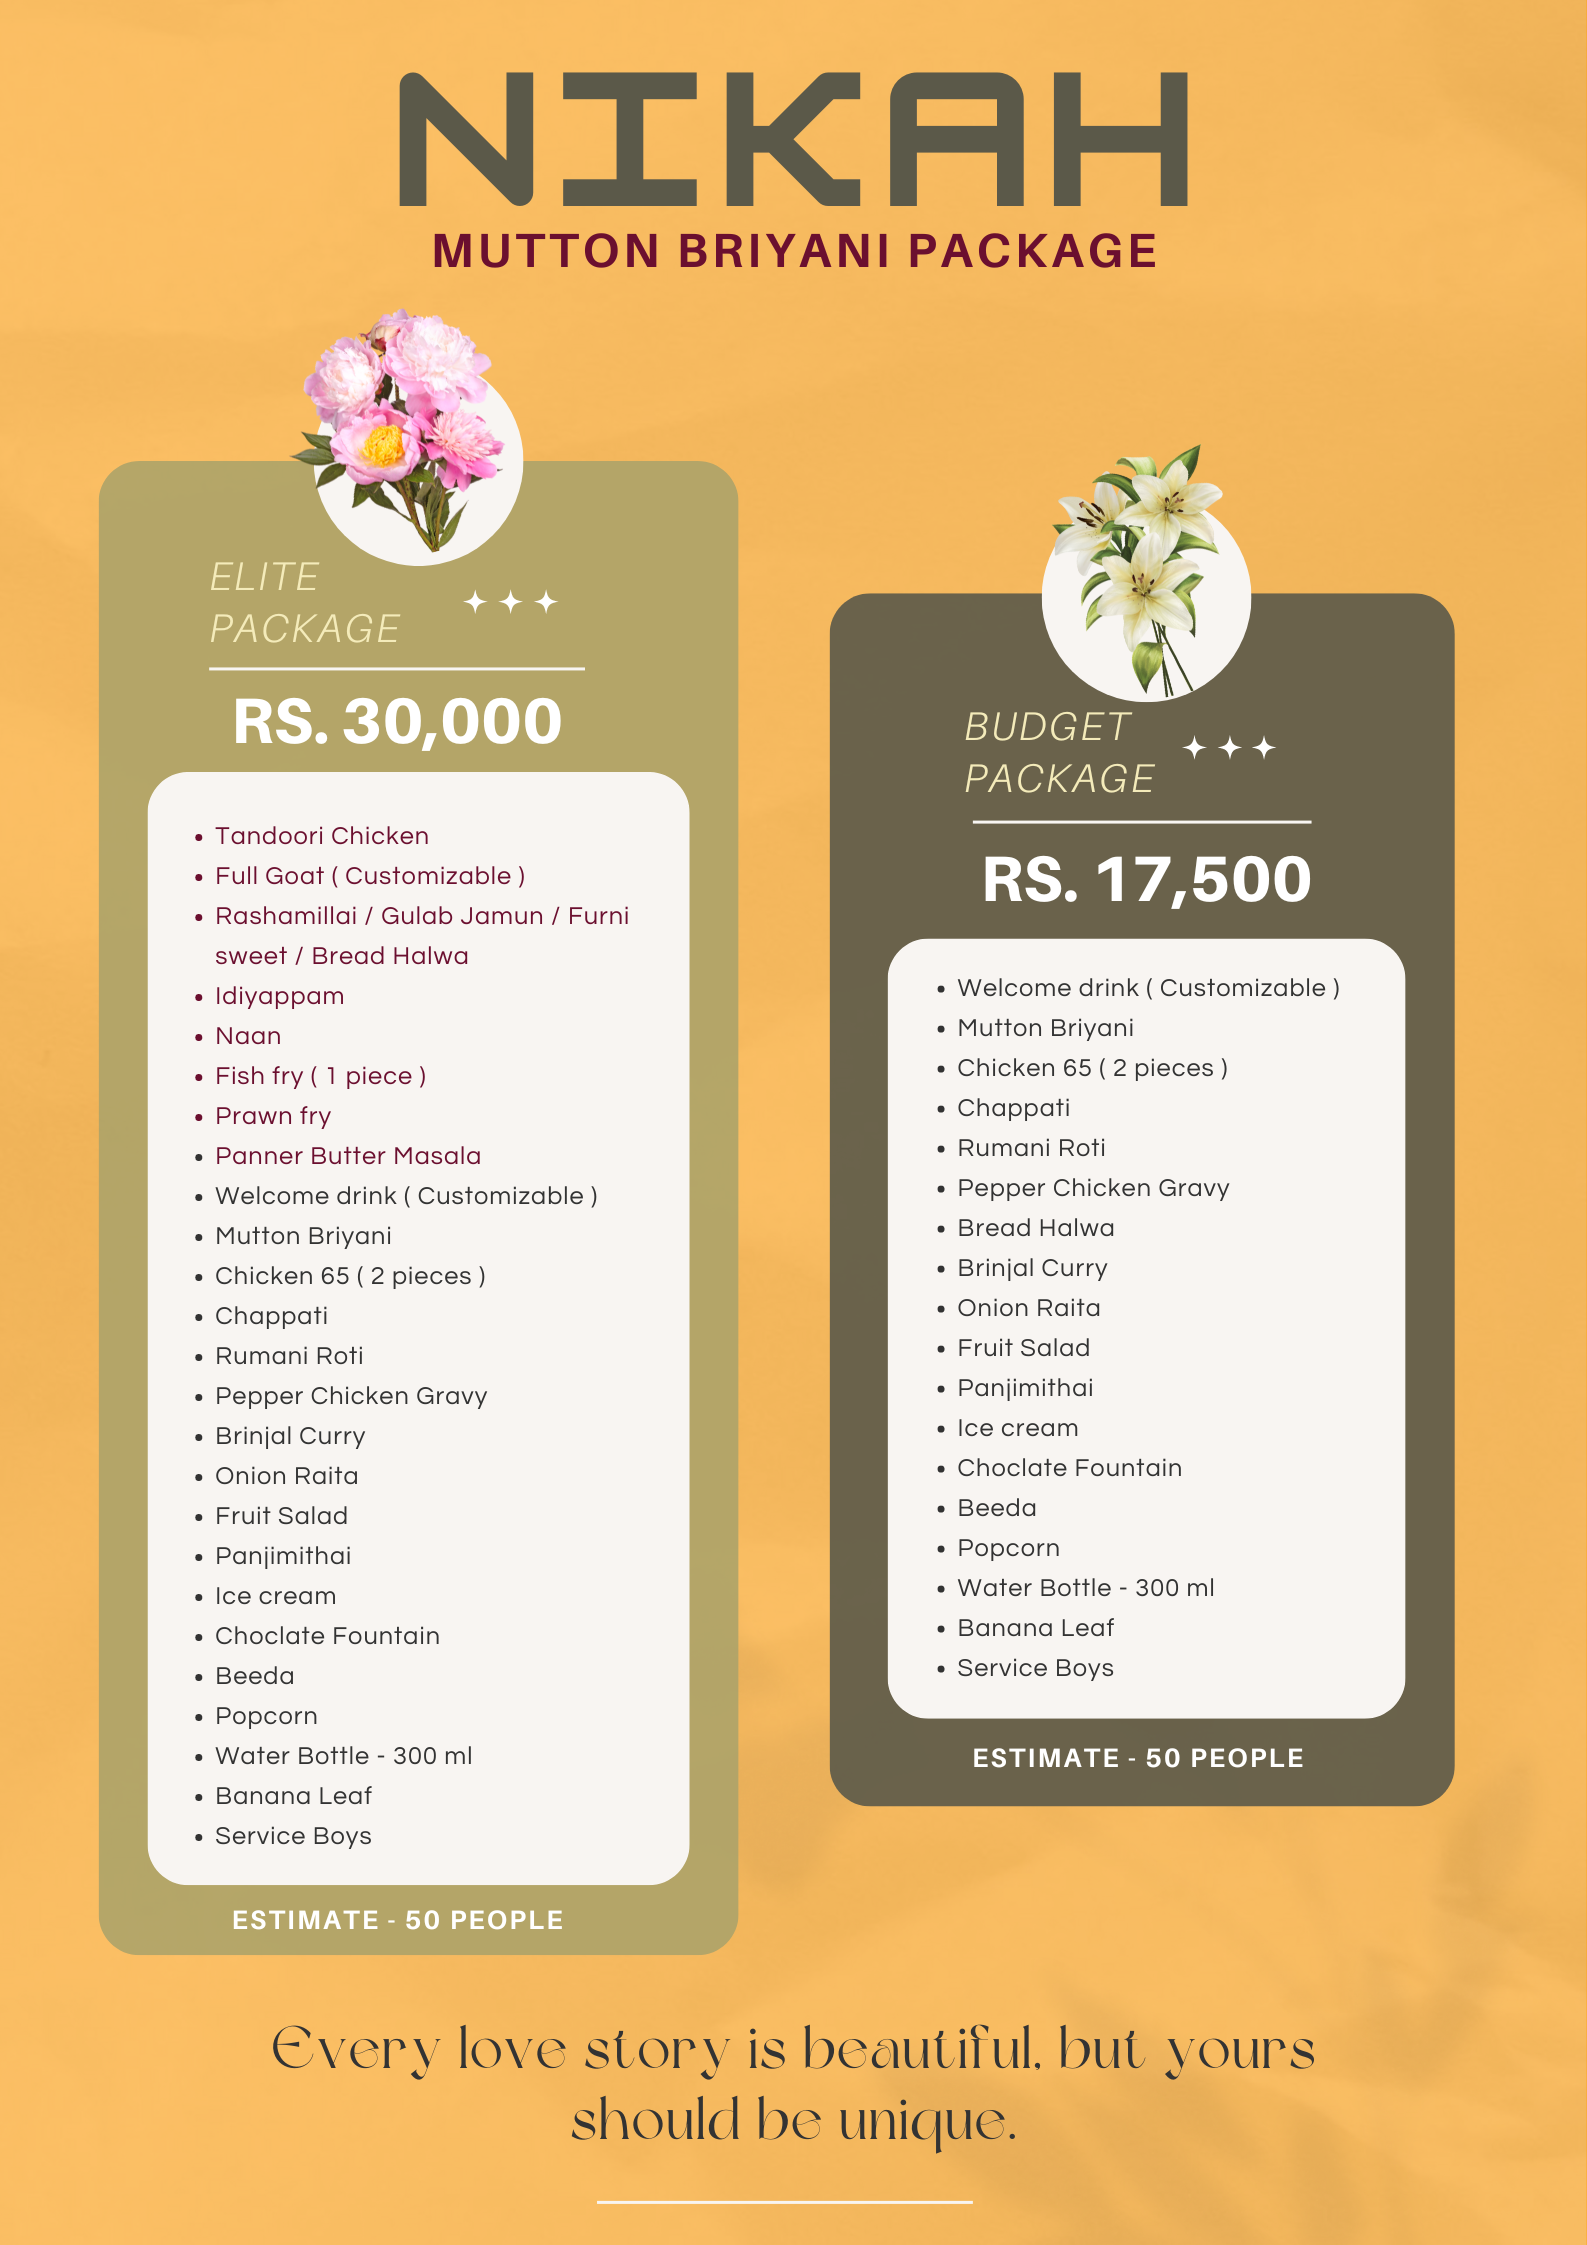
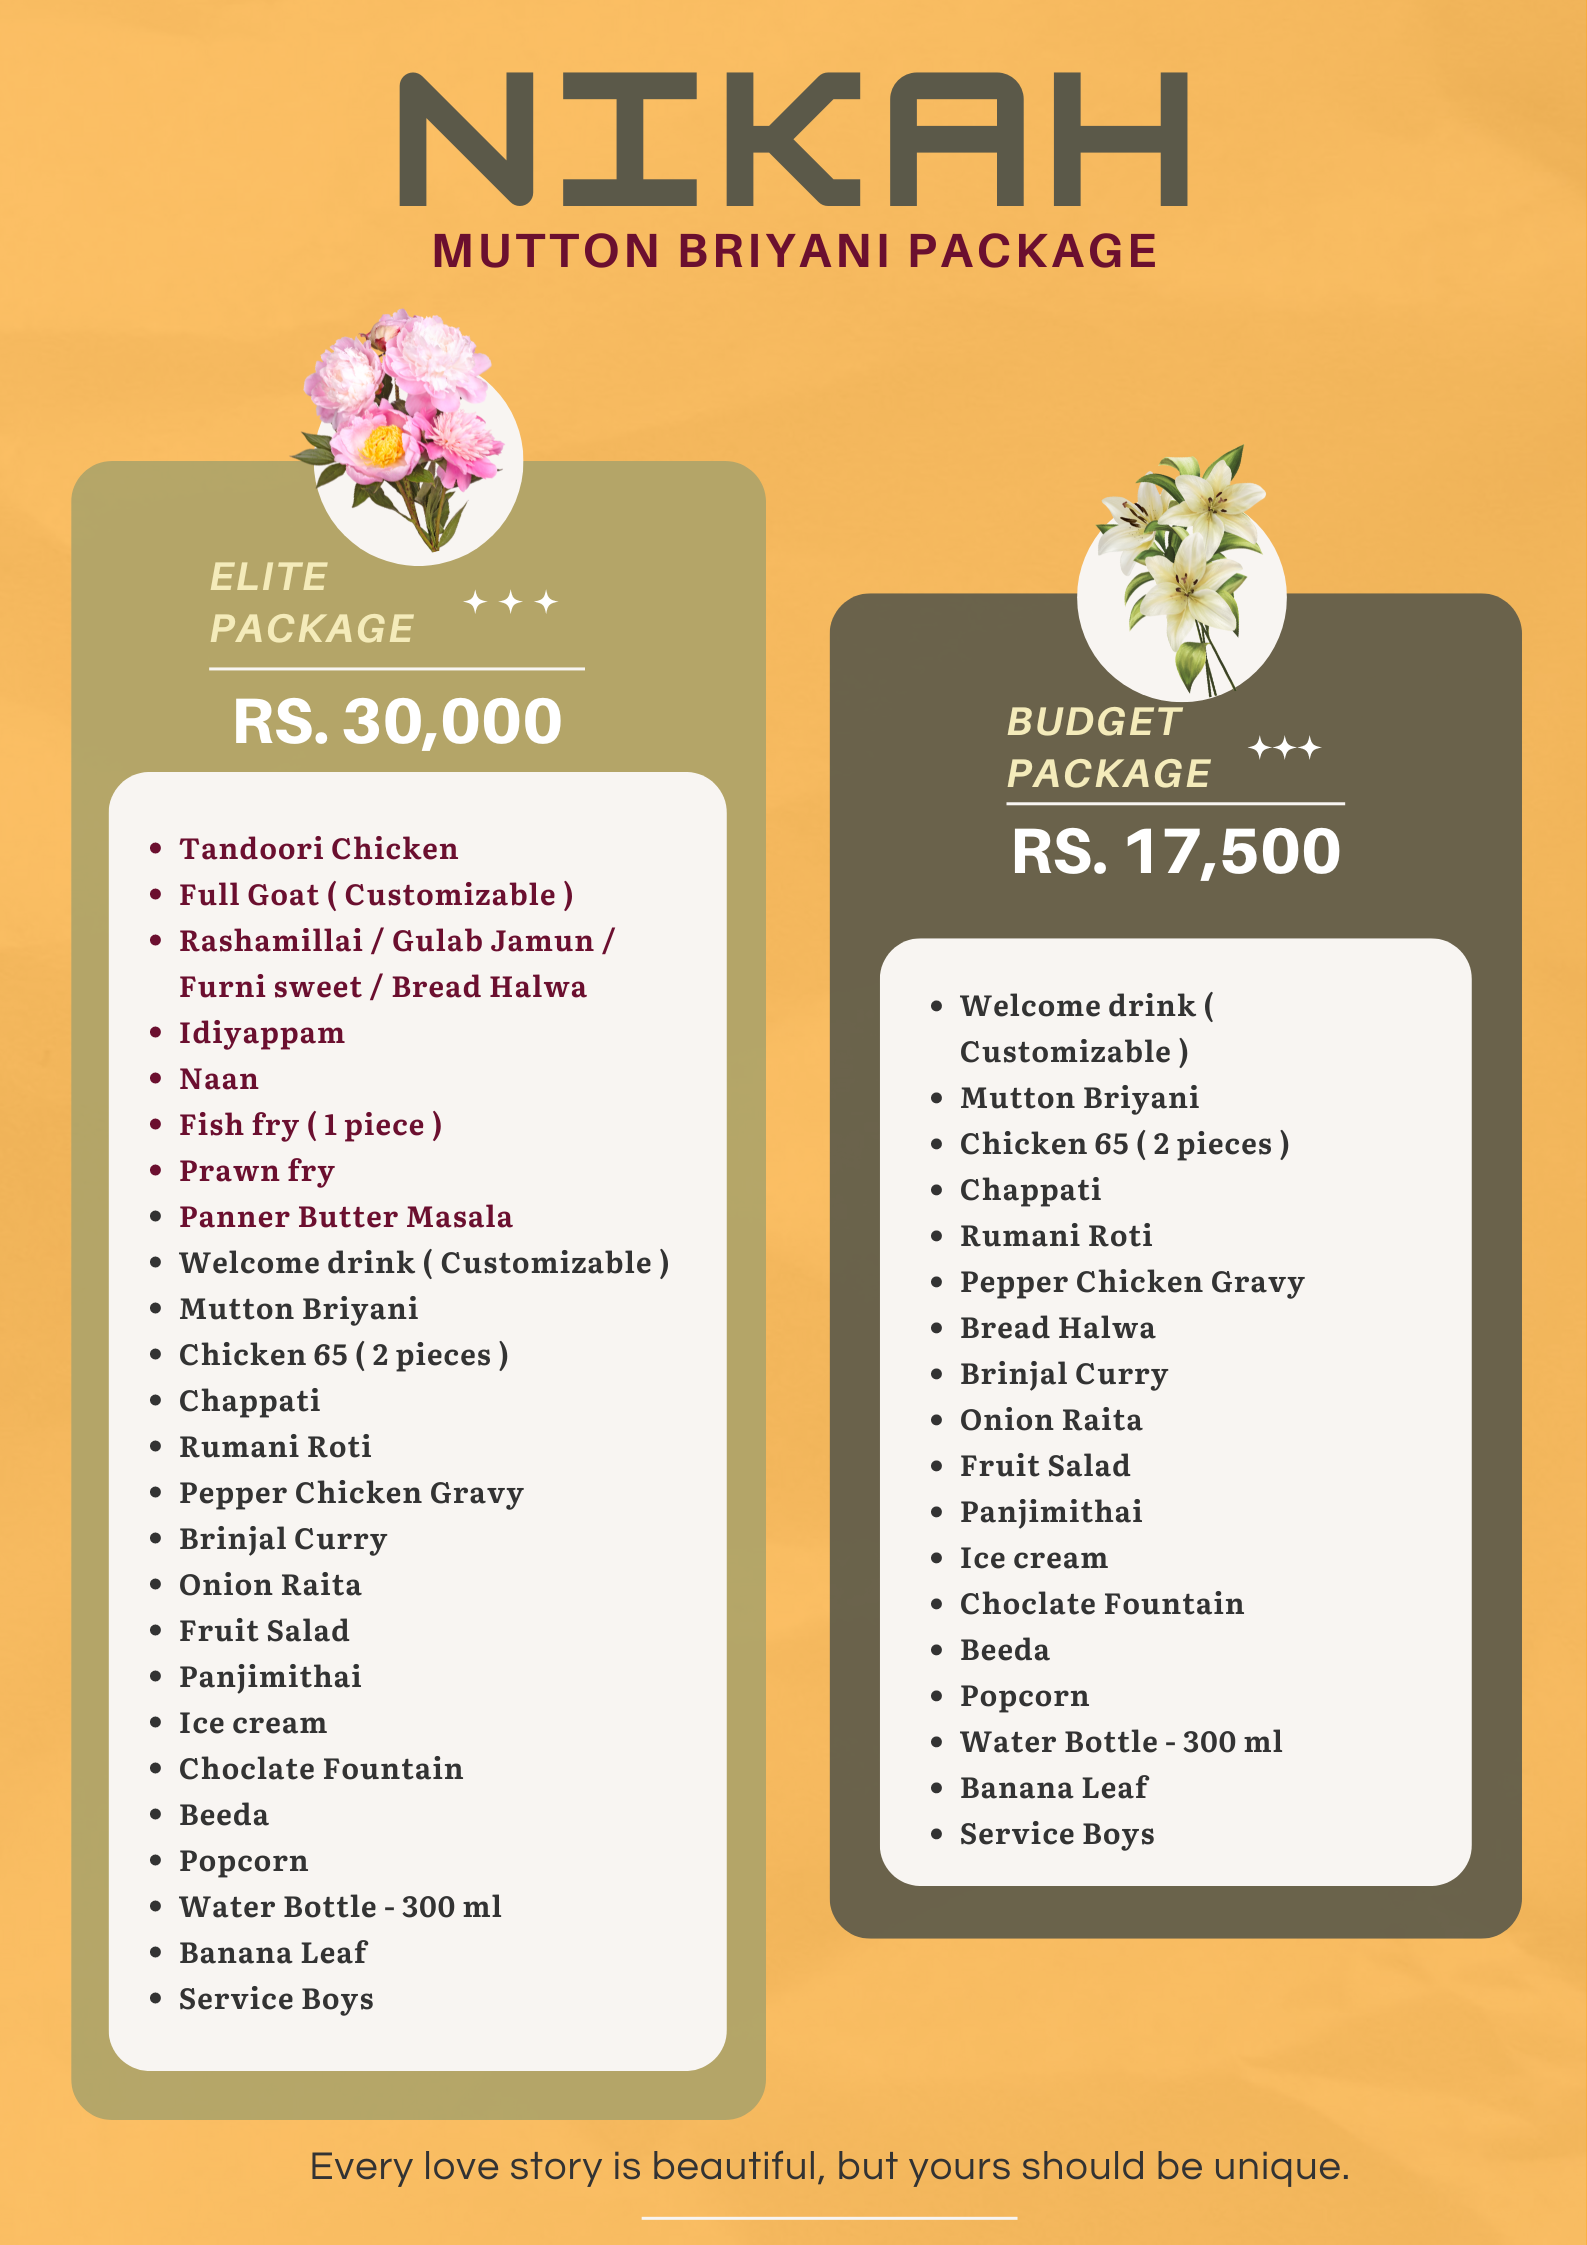
Fix: Boldness done

diff --git a/src/pages/home/Banner.jsx b/src/pages/home/Banner.jsx
@@ -68,14 +68,15 @@ const FlippingWrapper = styled.div`
     min-height: 400px;
     width: 100%;
     margin-bottom: 2rem;
+    @media (min-width: 762px) {
+      padding: 0 8rem;
+    }
   }
 `;
 
 const FlippingPage = styled.div`
   height: 100%;
   width: 100%;
-  user-select: none;
-  touch-action: none;
   border-radius: 12px;
 `;
 
@@ -106,9 +107,6 @@ const BannerCmpt = ({ navbarOpened }) => {
       className={` ${navbarOpened ? "roll-margin" : ""}`}
     >
       <BannerWrapper>
-        {/* <button onClick={back}>Back</button>
-        <button onClick={next}>Next</button> */}
-
         <div className="d-flex row align-items-center mt-0 mt-lg-2">
           <BannerTitle
             className="col-lg-12 text-center mb-md-5"
